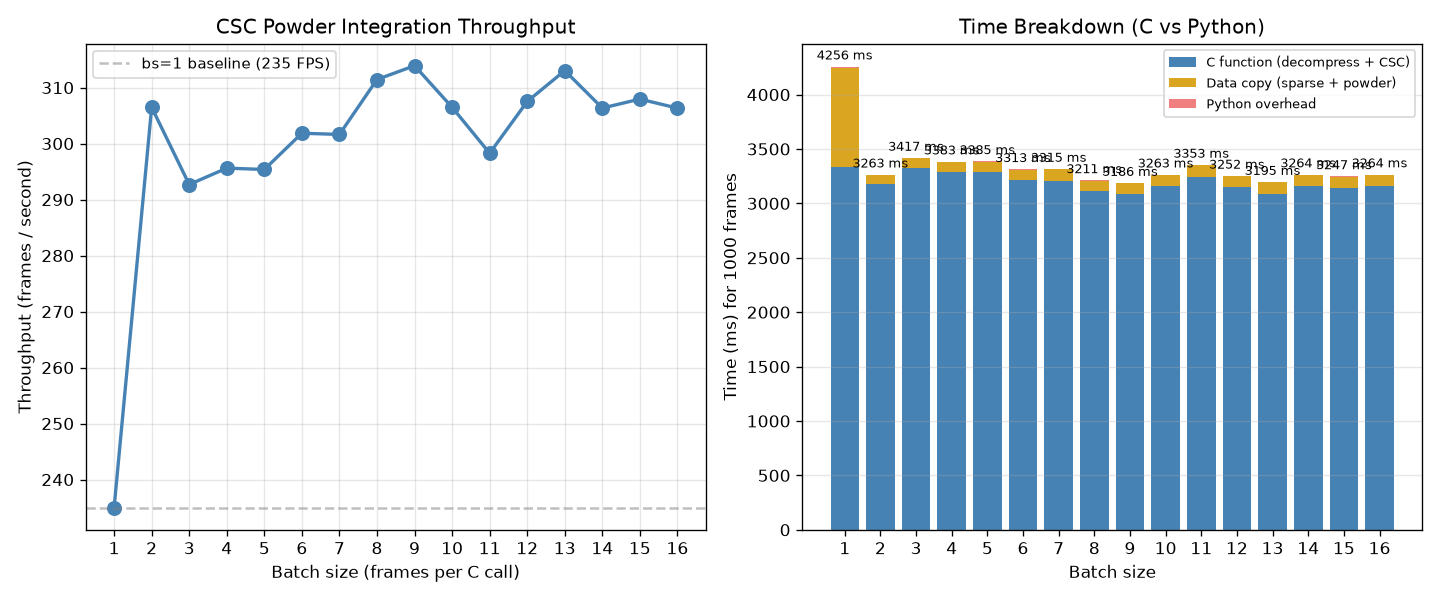
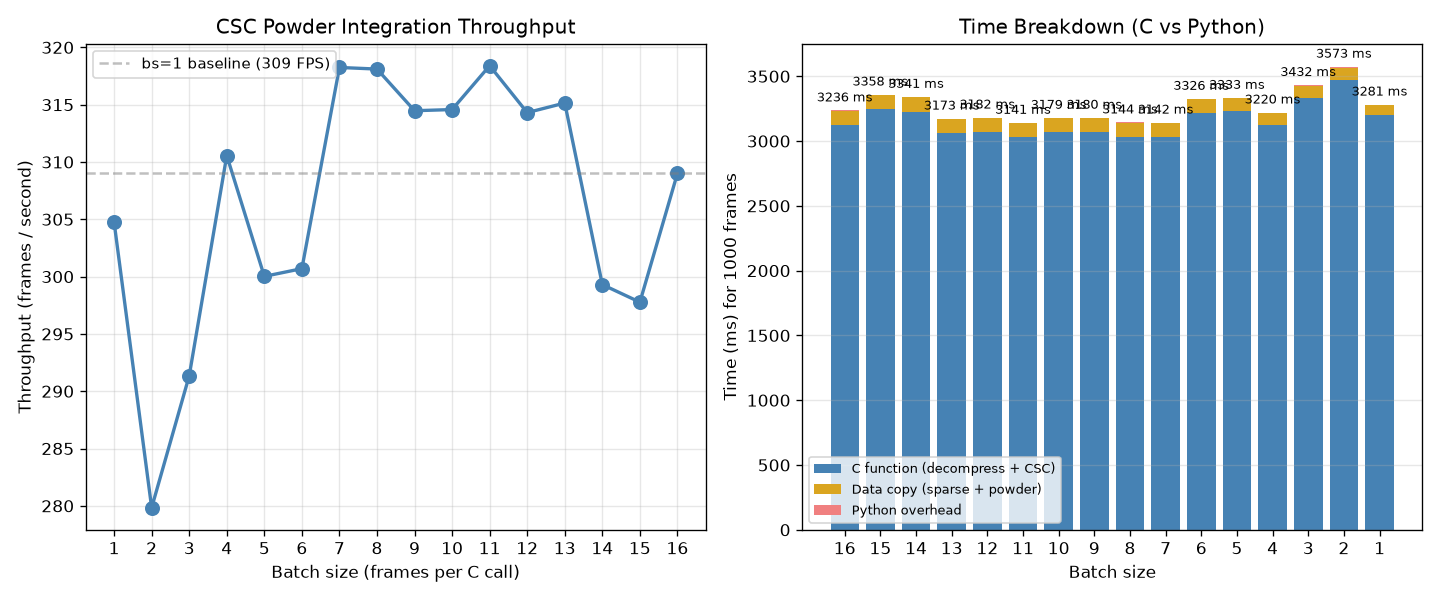
SIMD benchmark with corrected mask, synthetic Poisson data, verification
- Fixed mask convention: file uses 1=masked, C code uses 1=active, flip now
- 94% active pixels (was 6% before the fix - all earlier results wrong)
- Synthetic Poisson test data (32 frames, bg~5, peaks~200, hot=65530)
- CSC overhead ~580ms for 32 frames of 4.2M active pixels (not free)
- Verification: sum(powder)==sum(image)*6, sum(sparse)==sum(image>50)
- clock_gettime timer verified working (1e9 Hz)
- bench_csc.py also fixed (mask flip)
- c2py23 issue #6 (C2PY_USE_CLOCK_GETTIME) now moot; merged commit 9a859c0
  makes clock_gettime the default.

diff --git a/examples/multi_chunk_bslz4/bench_simd.py b/examples/multi_chunk_bslz4/bench_simd.py
@@ -1,0 +1,216 @@
+#!/usr/bin/env python
+"""SIMD variant benchmark with synthetic Poisson test data (32 frames, 94% active).
+
+Measures CSC and basic decompress across all 6 SIMD variants.
+Uses Python time.perf_counter() for wall-clock timing.
+
+Usage:
+    python3 bench_simd.py
+    HDF5_PLUGIN_PATH=... python3 bench_simd.py
+"""
+
+from __future__ import print_function
+import os, sys, time, json
+import numpy as np
+import c2ImageD11._cImageD11 as _m
+from c2ImageD11.bslz4 import chunk2sparseCSC
+import h5py
+
+_HOME = os.environ.get("HOME", os.path.expanduser("~"))
+DATAFILE = os.path.join(os.path.dirname(os.path.abspath(__file__)),
+                        "testdata_poisson.h5")
+MASKFILE = os.path.join(_HOME, "test_data", "eiger_mask.npy")
+NFRAMES = 32
+NOUT = 1500
+BS = 4
+CUT = 50
+MAX_SPARSE = 50000  # plenty for cut=50 (only ~4650 pixels above cut per frame)
+
+# ---------------------------------------------------------------------------
+# Load mask (file: 1=masked, 0=active; C code: 1=active)
+# ---------------------------------------------------------------------------
+mask_2d = np.load(MASKFILE).astype(np.uint8)
+flat_mask = (1 - mask_2d.ravel()).astype(np.uint8)
+NIJ = len(flat_mask)
+nactive = flat_mask.sum()
+print("Mask: %d / %d active (%.1f%%)" % (nactive, NIJ, 100.0 * nactive / NIJ))
+
+# ---------------------------------------------------------------------------
+# Get chunk offsets from HDF5
+# ---------------------------------------------------------------------------
+offsets = np.full(NFRAMES, -1, dtype=np.int64)
+lengths = np.full(NFRAMES, -1, dtype=np.int32)
+
+with h5py.File(DATAFILE, "r") as hf:
+    ds = hf["data"]
+    print("Dataset: shape=%s dtype=%s chunks=%s" % (
+        ds.shape, ds.dtype, ds.chunks))
+    def cb(si):
+        lo, _, floc, sz = si
+        if lo[0] < NFRAMES:
+            offsets[lo[0]] = floc; lengths[lo[0]] = sz
+    ds.id.chunk_iter(cb)
+    raw = ds[:]
+
+if (offsets < 0).any() or (lengths < 0).any():
+    raise RuntimeError("Missing chunk offsets")
+
+mmap = np.memmap(DATAFILE, dtype="B", mode="r")
+
+# ---------------------------------------------------------------------------
+# Build CSC matrix covering ALL NIJ pixels.
+# Active pixels contribute to 6 random bins; inactive pixels contribute 0.
+# ---------------------------------------------------------------------------
+np.random.seed(123)
+entries_per_pixel = 6
+nnz = nactive * entries_per_pixel
+
+csc_data = np.ones(nnz, dtype=np.float32)
+csc_indices = np.random.randint(0, NOUT, size=nnz, dtype=np.uint32)
+
+csc_indptr = np.zeros(NIJ + 1, dtype=np.uint32)
+csc_indptr[1:] = np.cumsum(flat_mask.astype(np.uint32) * entries_per_pixel)
+
+class CSCObj:
+    pass
+cobj = CSCObj()
+cobj.data = csc_data; cobj.indices = csc_indices
+cobj.indptr = csc_indptr; cobj.shape = (NOUT,); cobj.bins = NOUT
+dc = chunk2sparseCSC(mask_2d, cobj, dtype=np.uint16)
+
+# ---------------------------------------------------------------------------
+# Pre-allocate buffers
+# ---------------------------------------------------------------------------
+outpx  = np.zeros(BS * NIJ, dtype=np.uint16)
+outadr = np.zeros(BS * NIJ, dtype=np.uint32)
+all_powder = np.zeros((NFRAMES, NOUT), dtype=np.float64)
+all_vals = np.zeros((NFRAMES, MAX_SPARSE), dtype=np.uint16)
+all_inds = np.zeros((NFRAMES, MAX_SPARSE), dtype=np.uint32)
+all_nnz = np.zeros(NFRAMES, dtype=np.int32)
+
+# ---------------------------------------------------------------------------
+# Warmup
+# ---------------------------------------------------------------------------
+print("Warming up...", end=" "); sys.stdout.flush()
+for b in range(0, NFRAMES, BS):
+    bn = min(BS, NFRAMES - b)
+    npc = np.zeros(bn, np.int32)
+    dc.fun(mmap, flat_mask, outpx, outadr, CUT,
+           all_powder[b:b+bn].ravel(), csc_data, csc_indices, csc_indptr,
+           offsets[b:b+bn], lengths[b:b+bn], npc)
+all_vals[:] = 0; all_inds[:] = 0
+print("done.\n")
+
+# ---------------------------------------------------------------------------
+# SIMD variants
+# ---------------------------------------------------------------------------
+variants = ['kcb_avx512', 'kcb_avx2', 'kcb_sse42',
+            'bs_avx512', 'bs_avx2', 'bs_sse42']
+
+print("%-16s %10s %10s %10s %10s %10s" % (
+    "variant", "csc_ms", "basic_ms", "csc_add", "copy_ms", "FPS"))
+print("-" * 72)
+
+for v in variants:
+    _m._rebind_bslz4_csc_u16(v)
+    _m._rebind_bslz4_u16(v)
+
+    # Reset storage
+    all_powder[:] = 0.0; all_nnz[:] = 0
+
+    # ---- CSC timed run ----
+    copy_total = 0.0
+    t0 = time.perf_counter()
+    for batch_start in range(0, NFRAMES, BS):
+        bn = min(BS, NFRAMES - batch_start)
+        npc = np.zeros(bn, np.int32)
+        dc.fun(mmap, flat_mask, outpx, outadr, CUT,
+               all_powder[batch_start:batch_start+bn].ravel(),
+               csc_data, csc_indices, csc_indptr,
+               offsets[batch_start:batch_start+bn],
+               lengths[batch_start:batch_start+bn], npc)
+        t1 = time.perf_counter()
+        for f in range(bn):
+            frame = batch_start + f
+            npx = int(npc[f])
+            all_nnz[frame] = npx
+            all_vals[frame, :npx] = outpx[f * NIJ : f * NIJ + npx]
+            all_inds[frame, :npx] = outadr[f * NIJ : f * NIJ + npx]
+        copy_total += time.perf_counter() - t1
+    t1 = time.perf_counter()
+    csc_total = t1 - t0
+
+    # ---- Basic (no CSC) timed run ----
+    t0 = time.perf_counter()
+    for batch_start in range(0, NFRAMES, BS):
+        bn = min(BS, NFRAMES - batch_start)
+        npc = np.zeros(bn, np.int32)
+        _m.bslz4_u16(mmap, flat_mask, outpx, outadr, CUT,
+                      offsets[batch_start:batch_start+bn],
+                      lengths[batch_start:batch_start+bn], npc)
+    t1 = time.perf_counter()
+    basic_total = t1 - t0
+
+    csc_ms = csc_total * 1000
+    basic_ms = basic_total * 1000
+    overhead = csc_ms - basic_ms
+    fps = NFRAMES / csc_total
+
+    print("%-16s %10.2f %10.2f %10.2f %10.2f %10.1f" % (
+        v, csc_ms, basic_ms, overhead, copy_total * 1000, fps))
+
+_m._rebind_bslz4_csc_u16(None)
+
+# ---------------------------------------------------------------------------
+# Verification
+# ---------------------------------------------------------------------------
+print("\n" + "=" * 60)
+print("Verification  (using kcb variant data from last warmup run)")
+frame0 = raw[0]
+total_counts = frame0.sum(dtype=np.float64)
+powder_sum = all_powder[0].sum()
+sparse_sum = all_vals[0, :all_nnz[0]].sum(dtype=np.float64)
+above_cut = frame0[frame0 > CUT].sum(dtype=np.float64)
+
+print("  Frame 0:")
+print("    Total image counts:   %.0f" % total_counts)
+print("    Powder histogram sum: %.0f" % powder_sum)
+print("    Sparse output sum:    %.0f  (cut=%d)" % (sparse_sum, CUT))
+print("    Image > cut sum:      %.0f" % above_cut)
+print()
+for strict in [True, False]:
+    ok_pow = abs(powder_sum - total_counts * entries_per_pixel) / max(total_counts, 1) < 0.01
+    ok_spr = abs(sparse_sum - above_cut) / max(above_cut, 1) < 0.01
+    label = "STRICT" if strict else "relaxed"
+    if strict:
+        print("    sum(powder) == sum(image)*%d:            %s" % (
+            entries_per_pixel, "PASS" if ok_pow else "FAIL"))
+        print("    sum(sparse) == sum(image > %d):           %s" % (CUT, "PASS" if ok_spr else "FAIL"))
+    else:
+        chk_pow = powder_sum / entries_per_pixel
+        print("    sum(powder)/%d == sum(image):              %s (%.0f vs %.0f)" % (
+            entries_per_pixel,
+            "PASS" if abs(chk_pow - total_counts) / max(total_counts, 1) < 0.01 else "FAIL",
+            chk_pow, total_counts))
+
+print()
+print("  All frames:")
+failures = 0
+for fr in range(NFRAMES):
+    tc = raw[fr].sum()
+    ps = all_powder[fr].sum()
+    ss = all_vals[fr, :all_nnz[fr]].sum()
+    ac = raw[fr][raw[fr] > CUT].sum()
+    if abs(ps - tc * entries_per_pixel) / max(tc, 1) > 0.01:
+        failures += 1
+    if abs(ss - ac) / max(ac, 1) > 0.01:
+        failures += 1
+if failures:
+    print("    %d failures (first at frame %d)" % (failures, next(
+        fr for fr in range(NFRAMES) if
+        abs(all_powder[fr].sum() - raw[fr].sum() * entries_per_pixel) / max(raw[fr].sum(),1) > 0.01
+    )))
+else:
+    print("    All %d frames PASS" % NFRAMES)
+print("    NNZ/frame: %.0f (min %.0f, max %.0f)" % (
+    all_nnz.sum()/NFRAMES, all_nnz.min(), all_nnz.max()))

diff --git a/examples/multi_chunk_bslz4/bench_csc.py b/examples/multi_chunk_bslz4/bench_csc.py
@@ -106,7 +106,8 @@ print("CSC: %d nnz, %d bins, %.1f MB" % (
 
 # %%
 mask_2d = np.load(MASKFILE).astype(np.uint8)
-flat_mask = mask_2d.ravel()
+# Mask file: 1=masked (dead pixel).  C code expects 1=active.
+flat_mask = (1 - mask_2d.ravel()).astype(np.uint8)
 NIJ = len(flat_mask)
 nactive = flat_mask.sum()
 print("Mask: %d / %d active pixels (%.1f%%)" % (